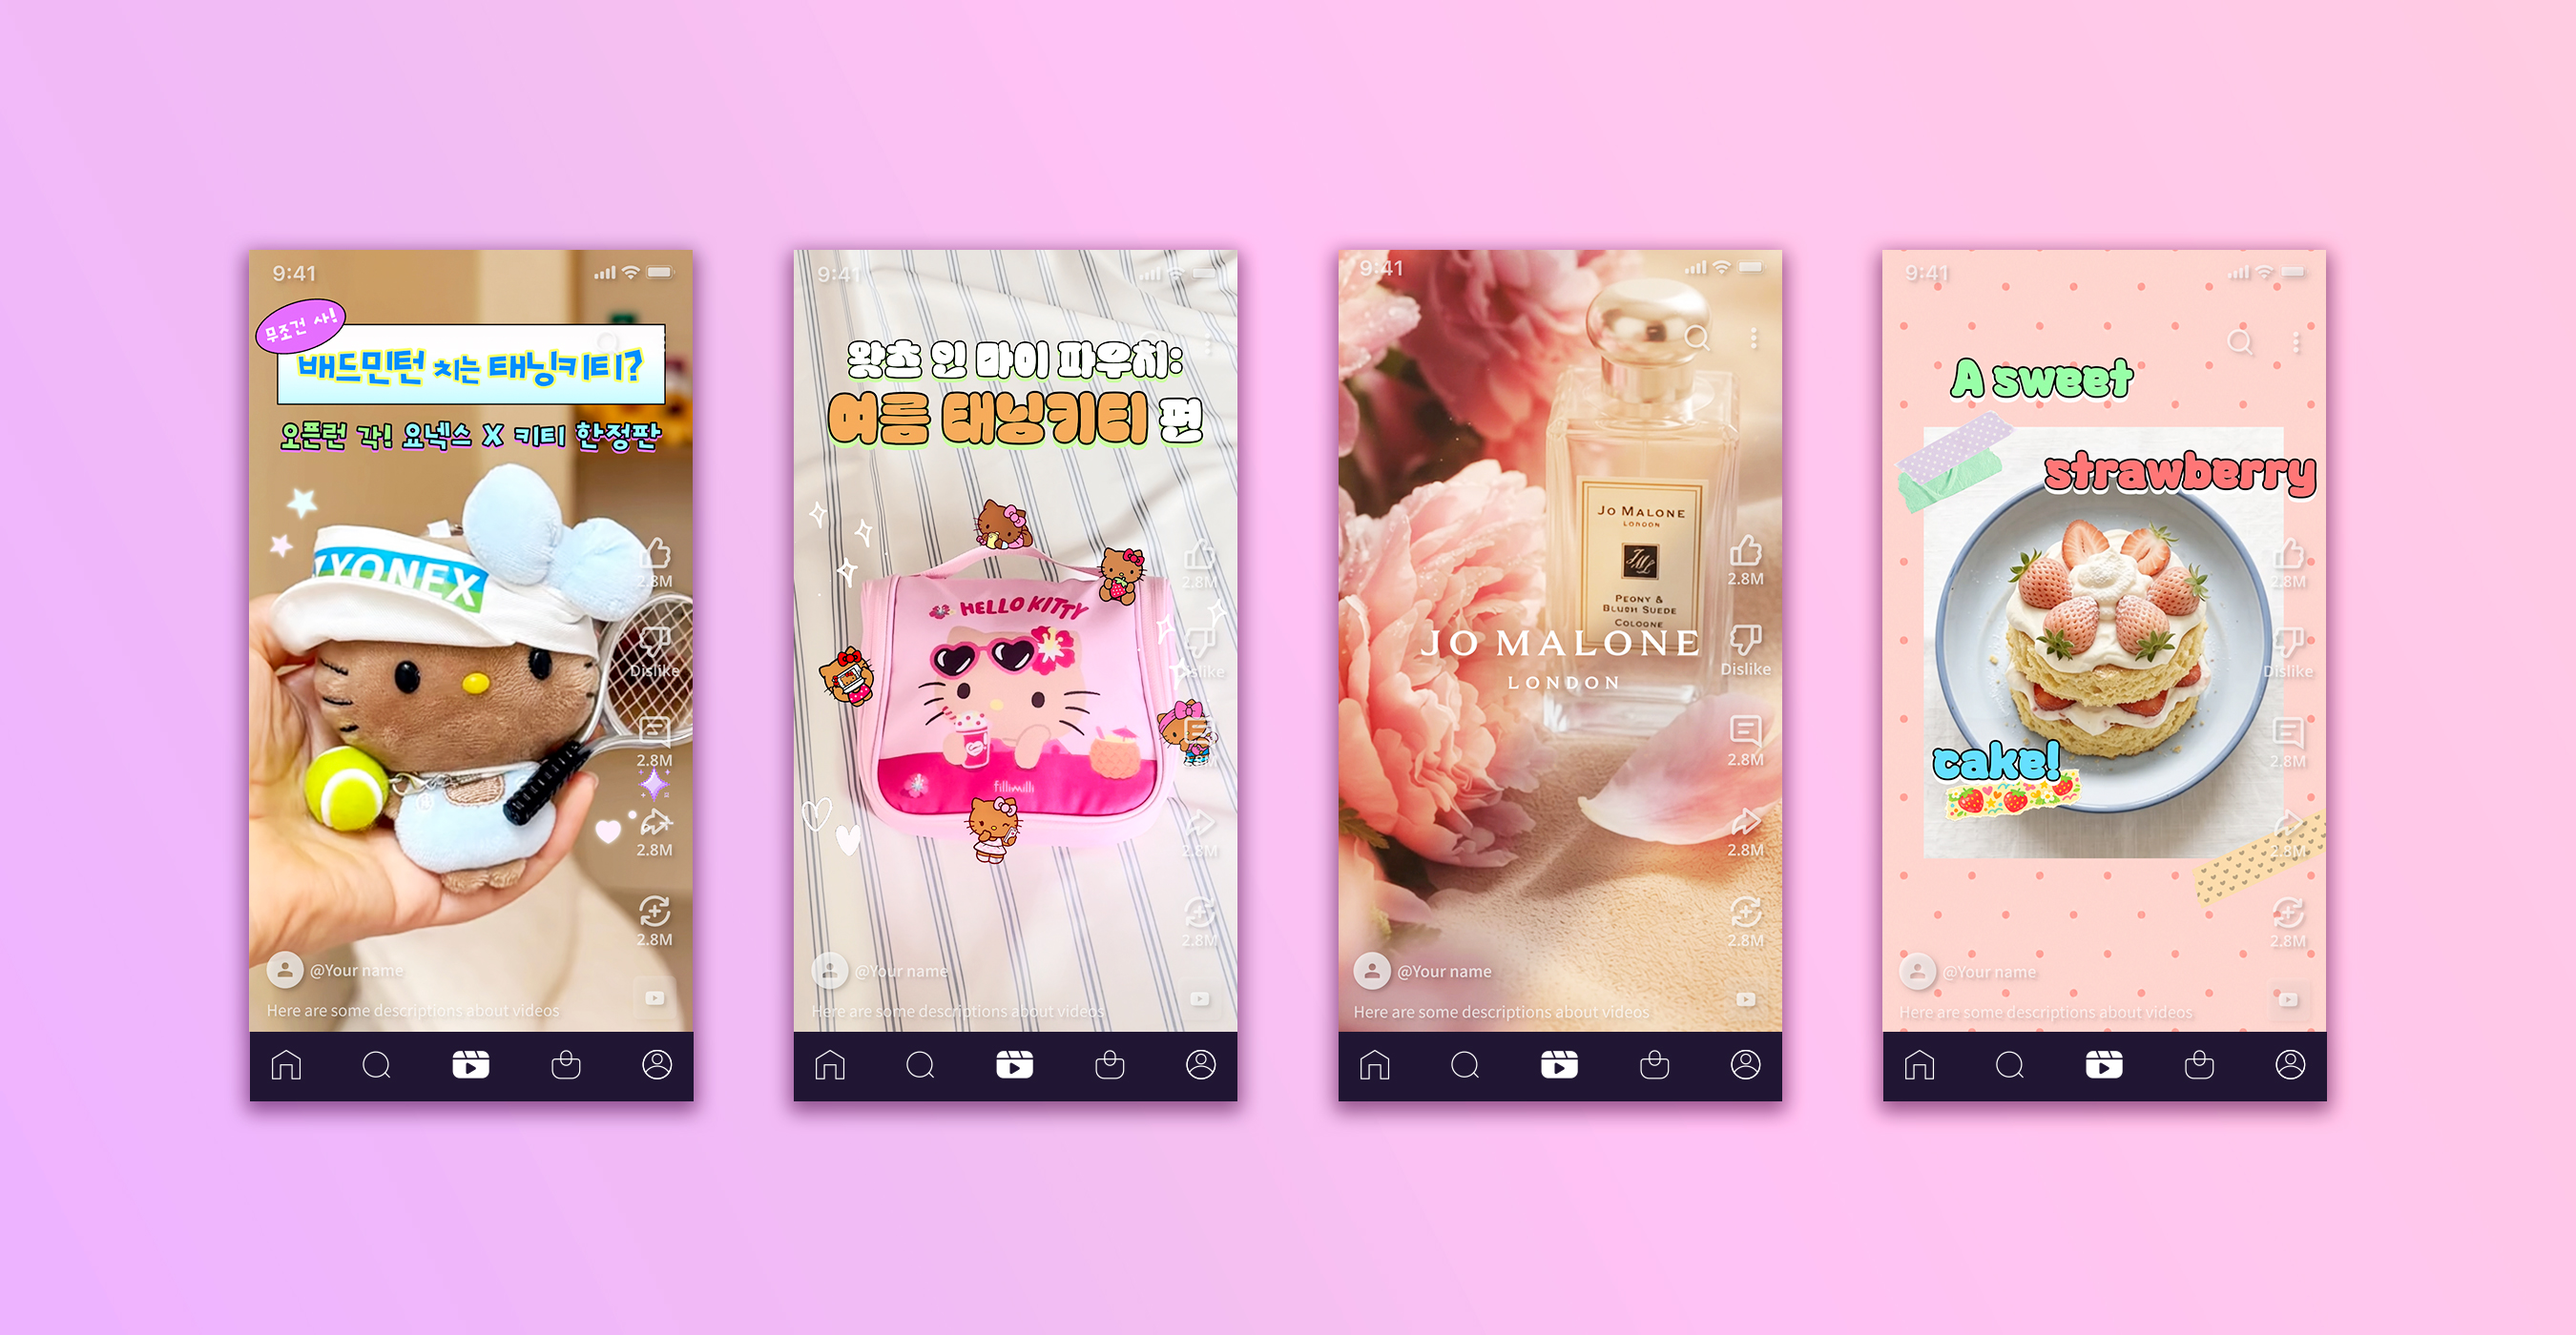
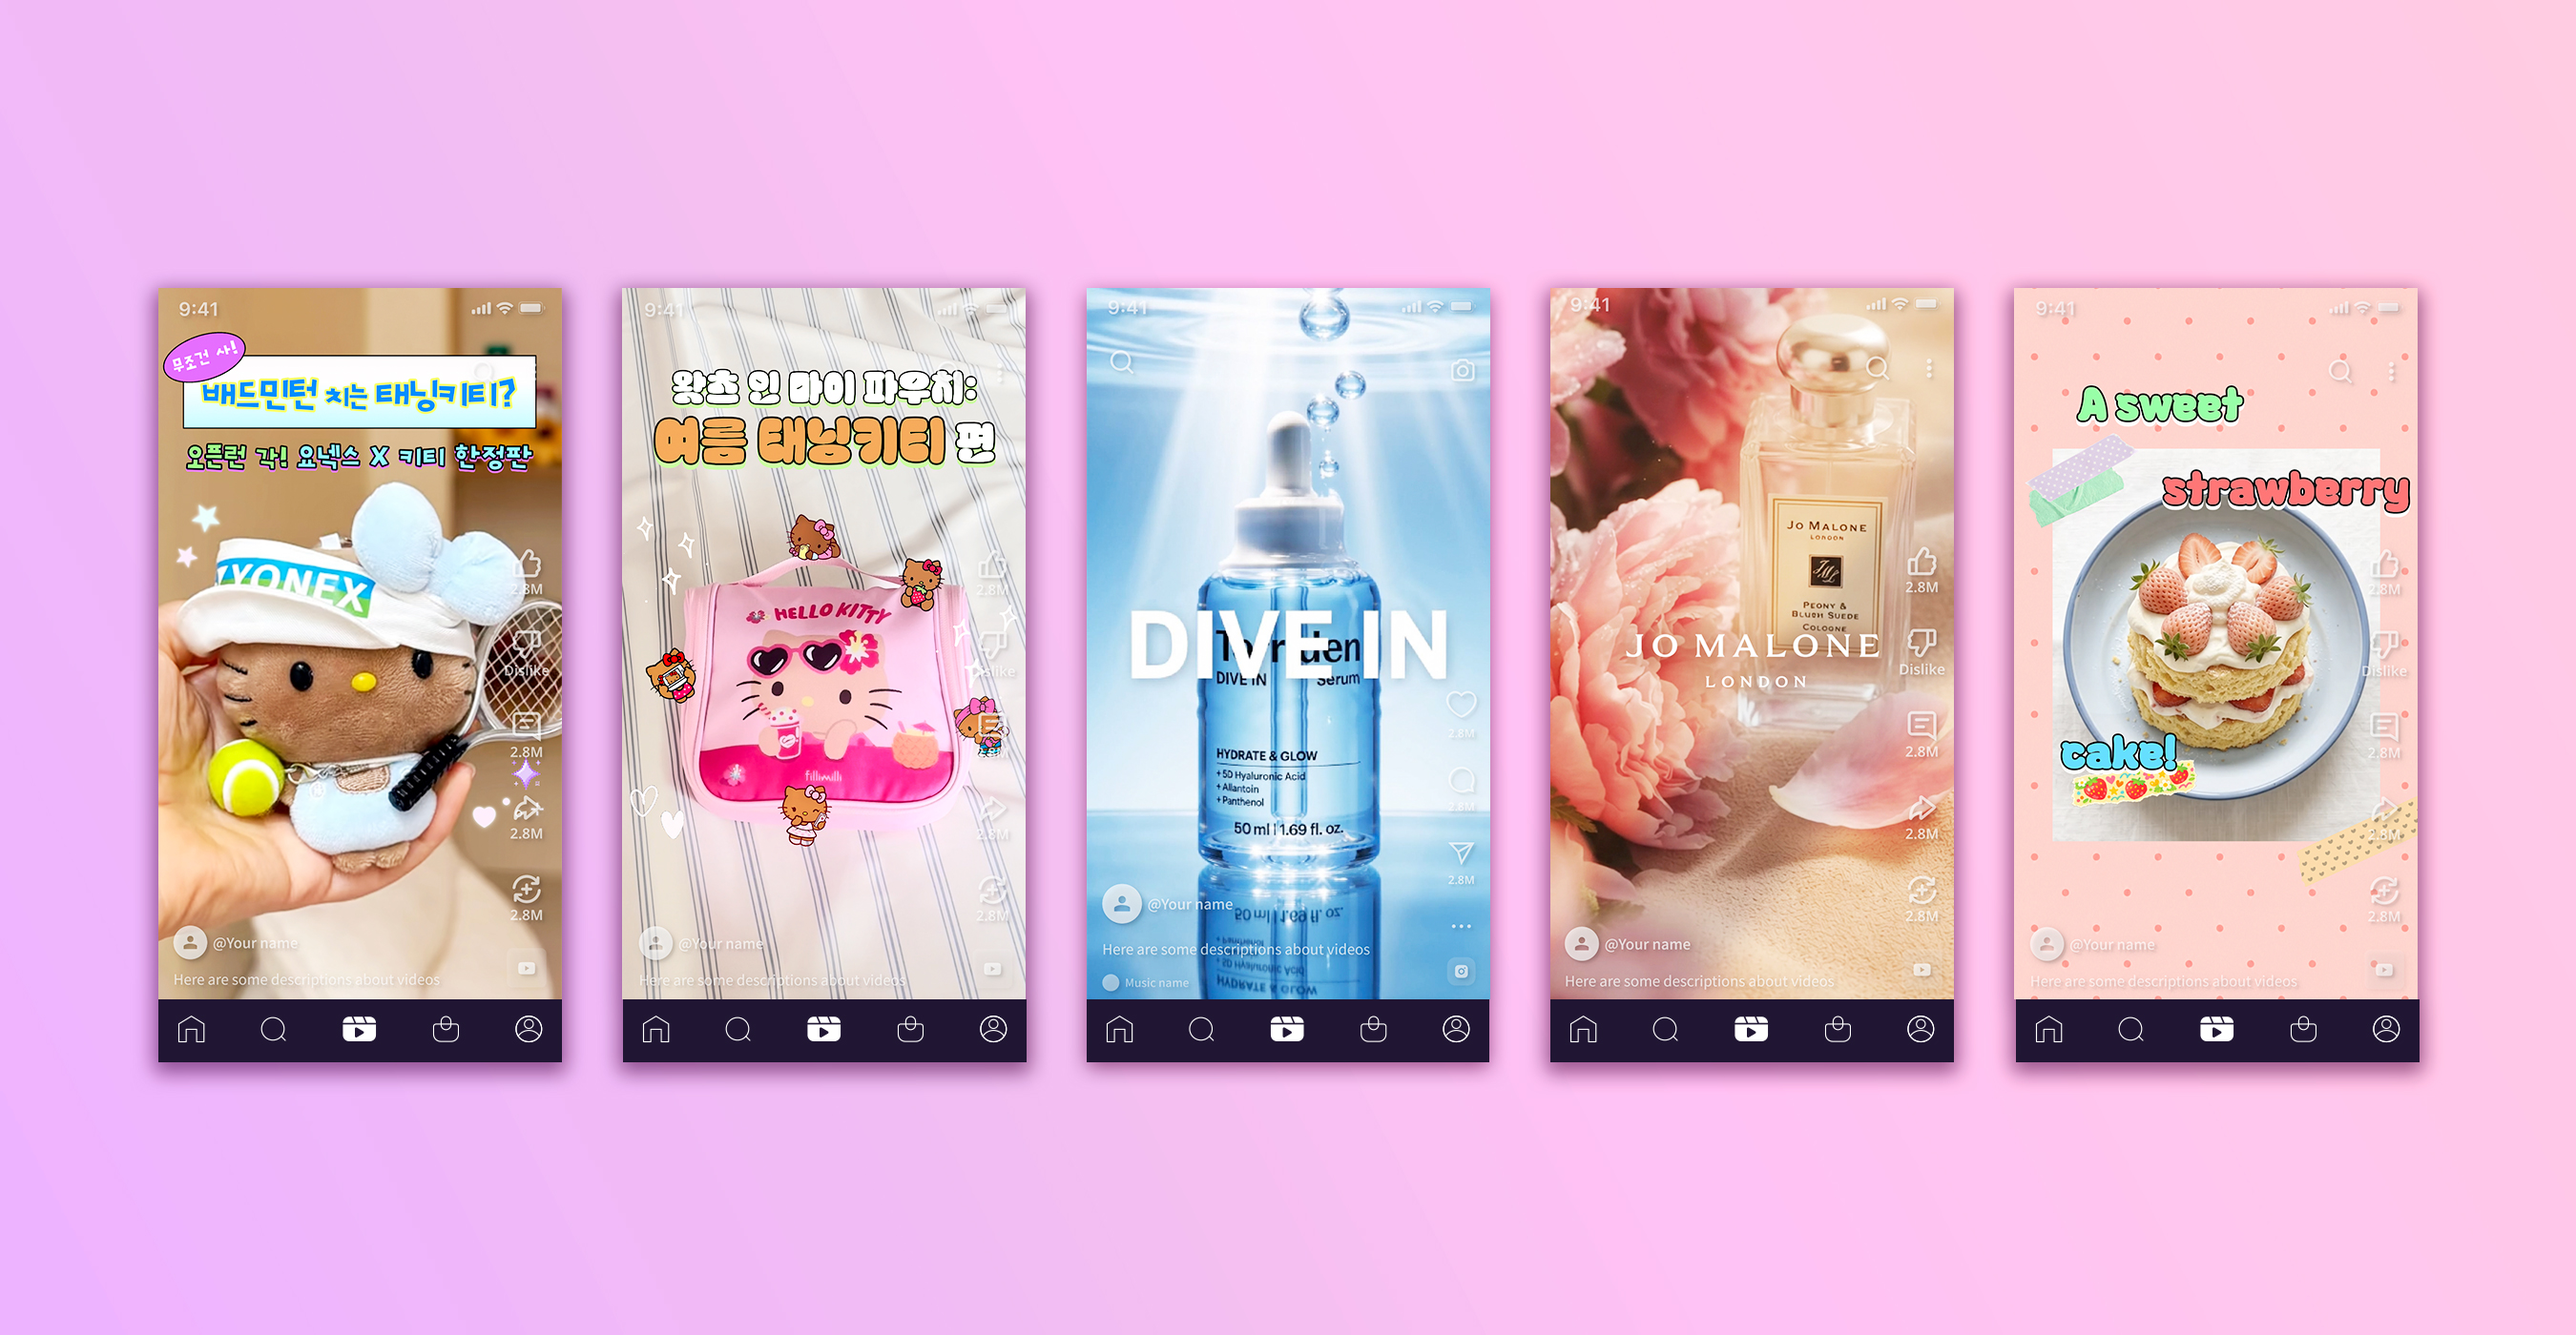
Add files via upload

diff --git a/index.html b/index.html
@@ -1207,13 +1207,10 @@ nav.scrolled { border-bottom-color: var(--border); }
     </div>
 
     <div class="project-item" onclick="openDetail(13)">
-      <div class="project-thumb split-thumb">
+      <div class="project-thumb">
         <img src="shorts2.jpg" class="project-img default" alt="">
-        <div class="split-zone split-left">
-          <div class="split-overlay"><p class="split-title">조말론 홍보</p></div>
-        </div>
-        <div class="split-zone split-right">
-          <div class="split-overlay"><p class="split-title">딸기케이크 드로잉</p></div>
+        <div class="project-hover-overlay">
+          <p class="project-hover-title">브랜드 홍보 & 딸기 케이크 드로잉</p>
         </div>
       </div>
     </div>
@@ -2098,17 +2095,18 @@ const projectData = {
 
   13: {
     genre:        "숏폼 콘텐츠",
-    title:        "조말론 홍보 & 딸기케이크 드로잉",
-    summary:      "조 말론 런던 향수 프로모션 숏폼과 일러스트 스케치에서 실사로 전환되는 딸기케이크 드로잉 숏폼 2편. 서로 다른 소재를 각각의 톤앤매너로 표현한 콘텐츠",
-    strategy:     "<strong>1. 브랜드 톤 유지 (조말론)</strong>\n화려한 장식 대신 꽃, 자연광 등 브랜드 이미지에 맞는 절제된 비주얼과 타이포그래피로 고급스러움 강조\n\n<strong>2. 단계적 전환 연출 (딸기케이크 드로잉)</strong>\n스케치 → 채색 → 실사 순으로 점진적으로 변화하는 장면을 이어 붙여 몰입감 있는 흐름 설계, 무거운 메시지 없이 '보는 재미'에 집중",
+    title:        "브랜드 홍보 & 딸기 케이크 드로잉",
+    summary:      "조말론과 토리든의 프로모션 숏폼. 일러스트 스케치에서 실사로 전환되는 딸기케이크 드로잉 숏폼. 서로 다른 소재를 각각의 톤앤매너로 표현한 콘텐츠",
+    strategy:     "<strong>1. 조말론 브랜드 톤 유지</strong>\n화려한 장식 대신 꽃, 자연광 등 브랜드 이미지에 맞는 절제된 비주얼과 타이포그래피로 고급스러움 강조\n\n<strong>2. DIVE IN의 임팩트 연출</strong>\n제품이 물속으로 빠져드는 역동적인 다이빙 모션을 통해 성분이 피부 깊숙이 빠르게 흡수되는 과정을 직관적인 비주얼로 시각화\n\n<strong>3. 단계적 전환 연출 (딸기케이크 드로잉)</strong>\n스케치 → 채색 → 실사 순으로 점진적으로 변화하는 장면을 이어 붙여 몰입감 있는 흐름 설계, 무거운 메시지 없이 '보는 재미'에 집중",
     year:         "2026",
-    output:       "숏폼 영상 2편",
+    output:       "숏폼 영상 3편",
     contribution: "기획, 편집 100% 1인 작업",
     mainImg:      "shorts2.jpg",
     aiVideo:      false,
     type:         "shorts-pair",
     videos: [
       { cover: "shorts2-1.jpg", src: "shorts2-1.mp4", title: "조말론 홍보" },
+      { cover: "shorts4-1.jpg", src: "shorts4-1.mp4", title: "토리든" },
       { cover: "shorts3-1.jpg", src: "shorts3-1.mp4", title: "딸기케이크 드로잉" },
     ],
   },
